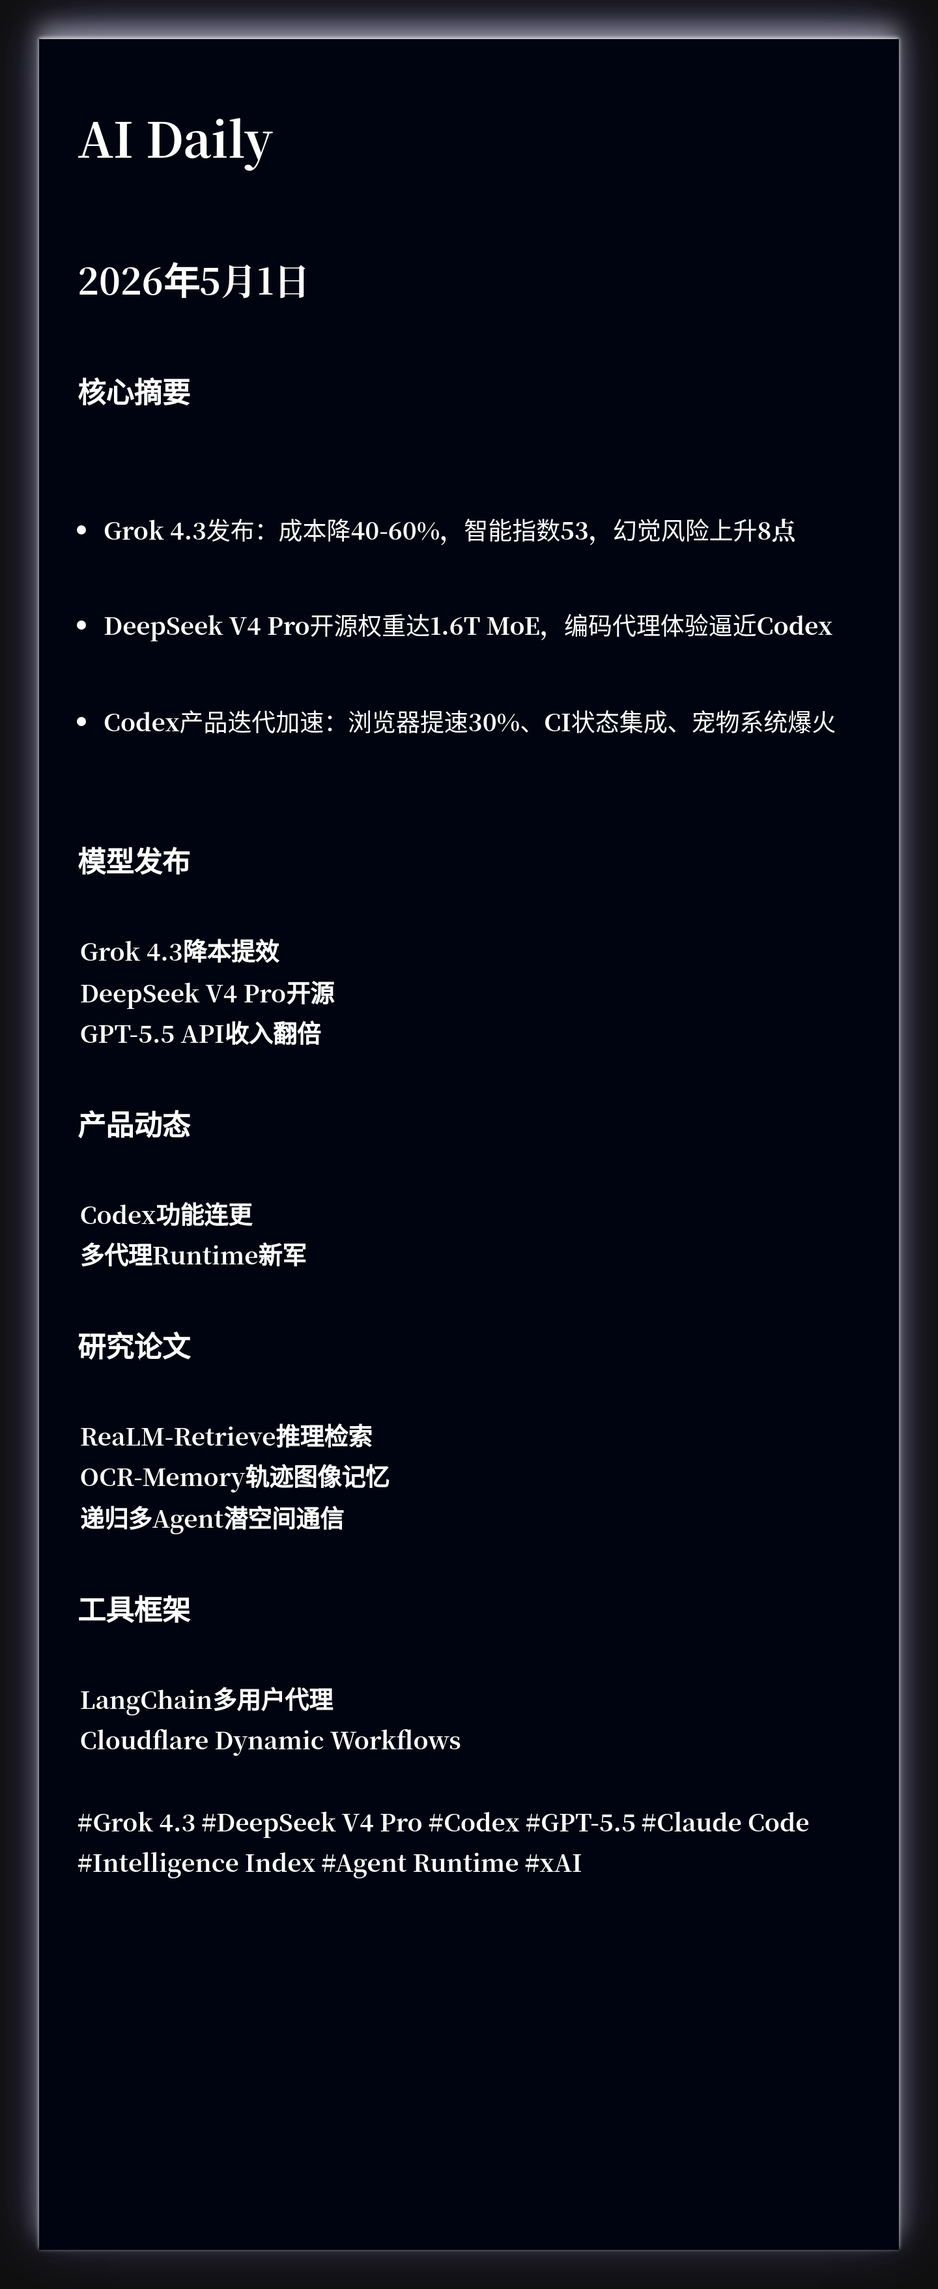
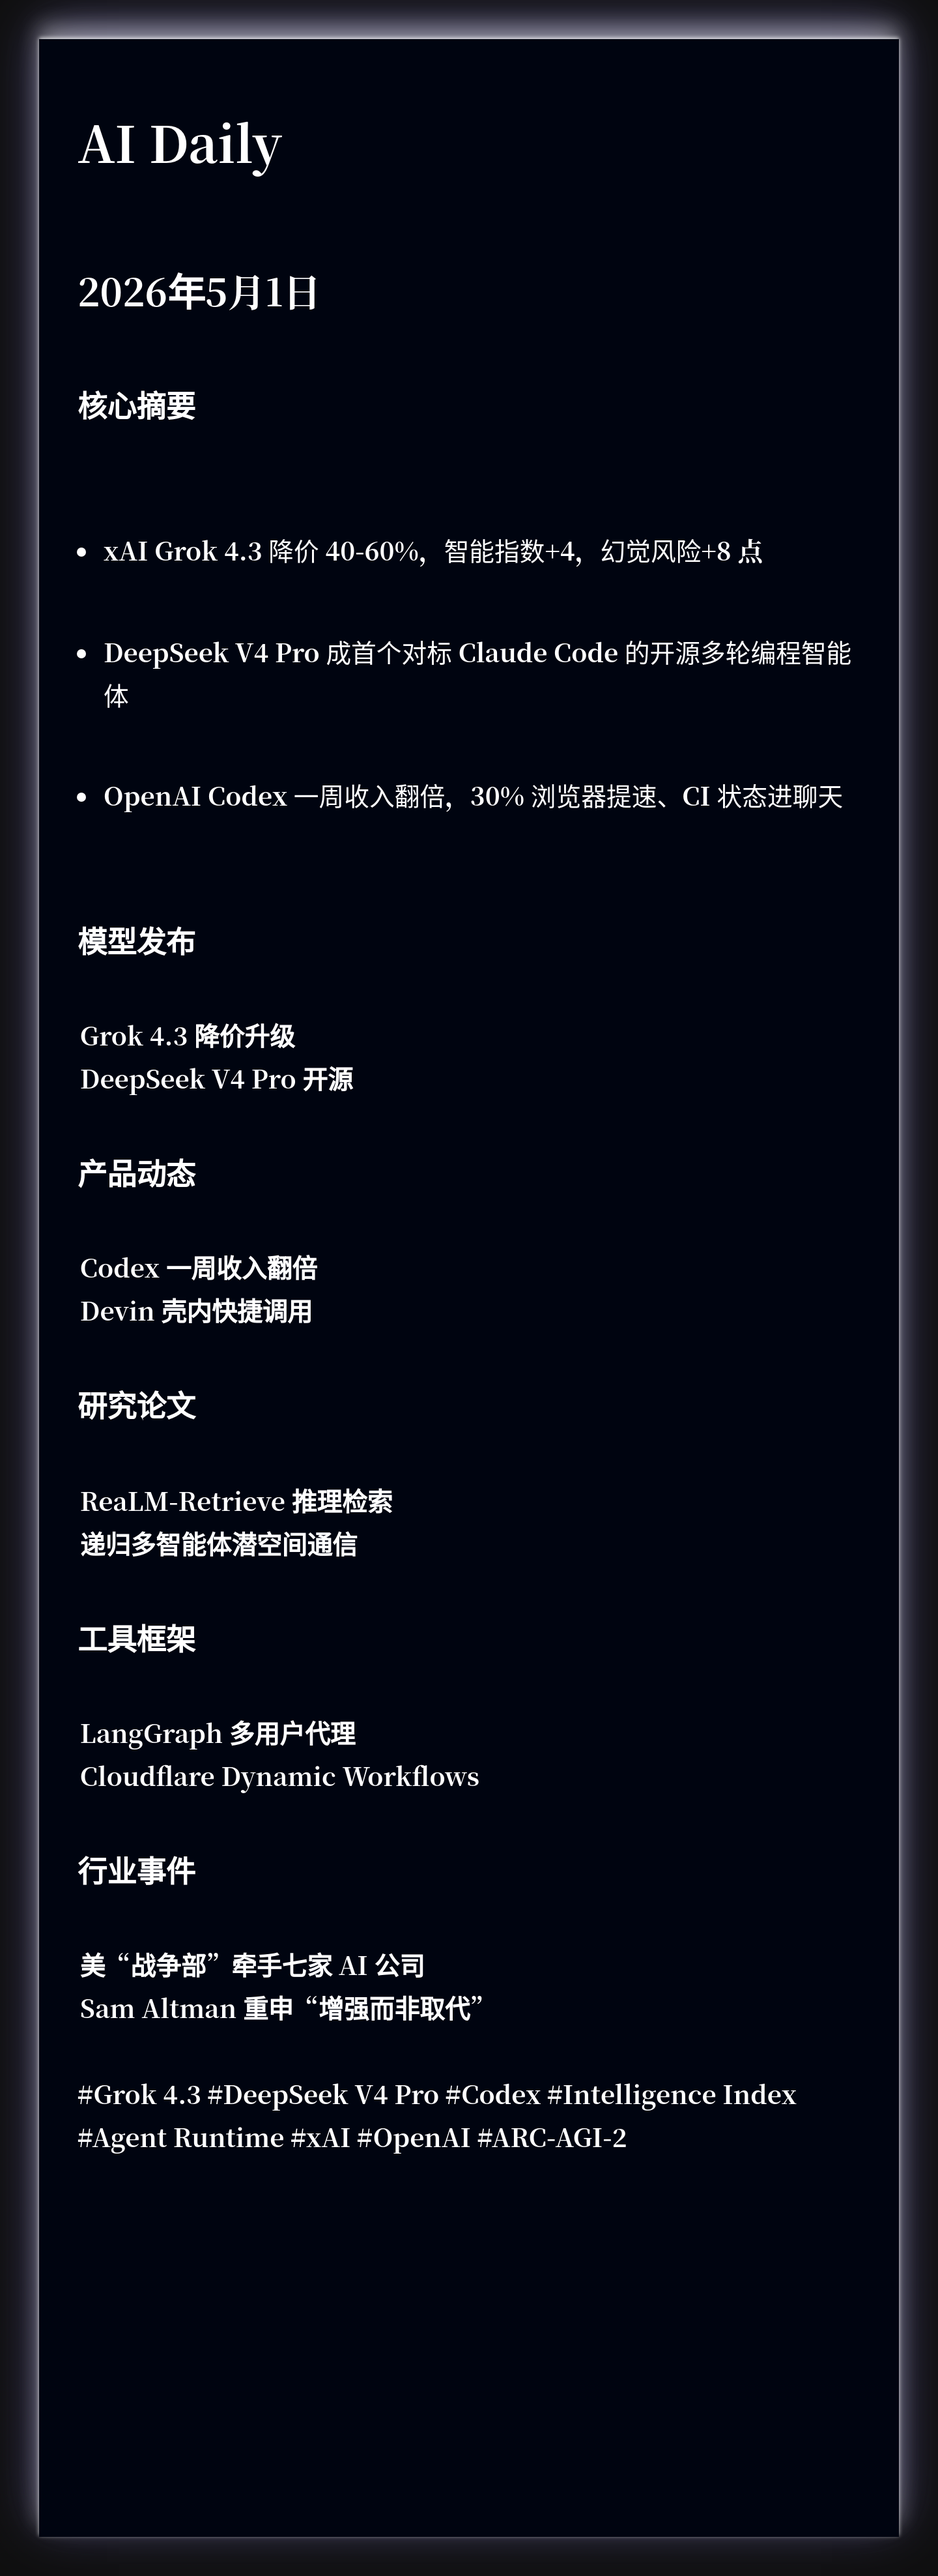
🤖 Auto update AI Daily - {{ date }} c12df99939e49153058be8885637e517e0945aa2

diff --git a/2026-05-01.html b/2026-05-01.html
@@ -5,7 +5,7 @@
     <meta name="viewport" content="width=device-width, initial-scale=1.0">
     <title>AI Daily · 2026年5月1日 星期五</title>
     <meta name="description" content="每日 AI 前沿资讯，智能分类，快速掌握核心动态">
-    <meta name="keywords" content="Grok 4.3, DeepSeek V4 Pro, Codex, GPT-5.5, Claude Code, Intelligence Index, Agent Runtime, xAI, OpenAI, MoE, AI, 人工智能, 机器学习, 深度学习, 资讯, 日报">
+    <meta name="keywords" content="Grok 4.3, DeepSeek V4 Pro, Codex, Intelligence Index, Agent Runtime, xAI, OpenAI, ARC-AGI-2, AI, 人工智能, 机器学习, 深度学习, 资讯, 日报">
     <link rel="stylesheet" href="css/styles.css">
 </head>
 <body data-theme="blue">
@@ -24,9 +24,9 @@
             <section class="summary-card">
                 <h2 class="section-title">📌 今日核心摘要</h2>
                 <ul class="summary-list">
-                <li class="summary-item">Grok 4.3发布：成本降40-60%，智能指数53，幻觉风险上升8点</li>
-                <li class="summary-item">DeepSeek V4 Pro开源权重达1.6T MoE，编码代理体验逼近Codex</li>
-                <li class="summary-item">Codex产品迭代加速：浏览器提速30%、CI状态集成、宠物系统爆火</li>
+                <li class="summary-item">xAI Grok 4.3 降价 40-60%，智能指数+4，幻觉风险+8 点</li>
+                <li class="summary-item">DeepSeek V4 Pro 成首个对标 Claude Code 的开源多轮编程智能体</li>
+                <li class="summary-item">OpenAI Codex 一周收入翻倍，30% 浏览器提速、CI 状态进聊天</li>
                 </ul>
             </section>
 
@@ -35,35 +35,26 @@
                 <div class="category-header">
                     <span class="category-icon">🤖</span>
                     <h2 class="category-title">模型发布</h2>
-                    <span class="category-count">3</span>
+                    <span class="category-count">2</span>
                 </div>
                 <div class="news-grid">
 
                 <article class="news-card">
                     <div class="news-card-header">
-                        <h3 class="news-title">Grok 4.3降本提效</h3>
+                        <h3 class="news-title">Grok 4.3 降价升级</h3>
                         <a href="https://x.com/ArtificialAnlys/status/2049987001655714250" class="item-link" target="_blank" rel="noopener">详情</a>
                     </div>
-                    <p class="news-summary">xAI推Grok 4.3，输入/输出价降40%/60%，Intelligence Index 53，幻觉率增8点</p>
-                    <div class="item-tags"><span class="tag">#xAI</span> <span class="tag">#Grok</span> <span class="tag">#Intelligence Index</span></div>
+                    <p class="news-summary">输入/输出价降 40-60%，GDPval-AA 提 321 Elo，幻觉率反升 8 点</p>
+                    <div class="item-tags"><span class="tag">#xAI</span> <span class="tag">#Grok</span> <span class="tag">#定价</span></div>
                 </article>
 
                 <article class="news-card">
                     <div class="news-card-header">
-                        <h3 class="news-title">DeepSeek V4 Pro开源</h3>
+                        <h3 class="news-title">DeepSeek V4 Pro 开源</h3>
                         <a href="https://x.com/omarsar0/status/2050009901234282649" class="item-link" target="_blank" rel="noopener">详情</a>
                     </div>
-                    <p class="news-summary">1.6T MoE开源权重，49B active，长上下文1M，Pi编码代理实战对标Codex</p>
-                    <div class="item-tags"><span class="tag">#DeepSeek</span> <span class="tag">#MoE</span> <span class="tag">#开源</span></div>
-                </article>
-
-                <article class="news-card">
-                    <div class="news-card-header">
-                        <h3 class="news-title">GPT-5.5 API收入翻倍</h3>
-                        <a href="https://x.com/OpenAI/status/2050250926888468929" class="item-link" target="_blank" rel="noopener">详情</a>
-                    </div>
-                    <p class="news-summary">OpenAI称GPT-5.5成最强发布，API收入增速2倍，Codex七日内收入翻倍</p>
-                    <div class="item-tags"><span class="tag">#OpenAI</span> <span class="tag">#GPT-5.5</span> <span class="tag">#API</span></div>
+                    <p class="news-summary">1.6T MoE 49B 活跃，1M 上下文，Pi 实测媲美 Claude Code</p>
+                    <div class="item-tags"><span class="tag">#DeepSeek</span> <span class="tag">#开源</span> <span class="tag">#编程智能体</span></div>
                 </article>
 
                 </div>
@@ -79,20 +70,20 @@
 
                 <article class="news-card">
                     <div class="news-card-header">
-                        <h3 class="news-title">Codex功能连更</h3>
-                        <a href="https://x.com/OpenAIDevs/status/2050275713824211041" class="item-link" target="_blank" rel="noopener">详情</a>
+                        <h3 class="news-title">Codex 一周收入翻倍</h3>
+                        <a href="https://x.com/OpenAI/status/2050290618187055175" class="item-link" target="_blank" rel="noopener">详情</a>
                     </div>
-                    <p class="news-summary">新增设备工具栏、浏览器提速30%、CI状态、迁移工具及爆款宠物系统</p>
-                    <div class="item-tags"><span class="tag">#Codex</span> <span class="tag">#OpenAI</span> <span class="tag">#UX</span></div>
+                    <p class="news-summary">新增设备工具栏、CI 状态、宠物系统，浏览器提速 30%</p>
+                    <div class="item-tags"><span class="tag">#OpenAI</span> <span class="tag">#Codex</span> <span class="tag">#IDE</span></div>
                 </article>
 
                 <article class="news-card">
                     <div class="news-card-header">
-                        <h3 class="news-title">多代理Runtime新军</h3>
-                        <a href="https://x.com/FredKSchott/status/2050274923852210397" class="item-link" target="_blank" rel="noopener">详情</a>
+                        <h3 class="news-title">Devin 壳内快捷调用</h3>
+                        <a href="https://x.com/cognition/status/2050268727997022498" class="item-link" target="_blank" rel="noopener">详情</a>
                     </div>
-                    <p class="news-summary">Devin推shell热键，Hermes加/goal循环，Flue发布TS框架对标Claude Code</p>
-                    <div class="item-tags"><span class="tag">#Devin</span> <span class="tag">#Hermes</span> <span class="tag">#Flue</span></div>
+                    <p class="news-summary">一键唤起 Devin 在本地 Shell 执行，加速人机协作</p>
+                    <div class="item-tags"><span class="tag">#Cognition</span> <span class="tag">#Devin</span> <span class="tag">#Agent</span></div>
                 </article>
 
                 </div>
@@ -102,35 +93,26 @@
                 <div class="category-header">
                     <span class="category-icon">📚</span>
                     <h2 class="category-title">研究论文</h2>
-                    <span class="category-count">3</span>
+                    <span class="category-count">2</span>
                 </div>
                 <div class="news-grid">
 
                 <article class="news-card">
                     <div class="news-card-header">
-                        <h3 class="news-title">ReaLM-Retrieve推理检索</h3>
+                        <h3 class="news-title">ReaLM-Retrieve 推理检索</h3>
                         <a href="https://x.com/omarsar0/status/2049954716298494386" class="item-link" target="_blank" rel="noopener">详情</a>
                     </div>
-                    <p class="news-summary">推理时检索替代前置RAG，F1+10.1%，检索调用减47%，开销降3.2倍</p>
-                    <div class="item-tags"><span class="tag">#ReaLM</span> <span class="tag">#RAG</span> <span class="tag">#推理</span></div>
+                    <p class="news-summary">推理时动态检索，F1+10.1%，调用量降 47%，开销降 3.2 倍</p>
+                    <div class="item-tags"><span class="tag">#RAG</span> <span class="tag">#推理</span> <span class="tag">#Agent</span></div>
                 </article>
 
                 <article class="news-card">
                     <div class="news-card-header">
-                        <h3 class="news-title">OCR-Memory轨迹图像记忆</h3>
-                        <a href="https://x.com/dair_ai/status/2049957482811056307" class="item-link" target="_blank" rel="noopener">详情</a>
-                    </div>
-                    <p class="news-summary">长程轨迹存为图像+锚点索引，Mind2Web/AppWorld SOTA，上下文严格受限</p>
-                    <div class="item-tags"><span class="tag">#OCR-Memory</span> <span class="tag">#记忆</span> <span class="tag">#轨迹</span></div>
-                </article>
-
-                <article class="news-card">
-                    <div class="news-card-header">
-                        <h3 class="news-title">递归多Agent潜空间通信</h3>
+                        <h3 class="news-title">递归多智能体潜空间通信</h3>
                         <a href="https://x.com/omarsar0/status/2050261229315477988" class="item-link" target="_blank" rel="noopener">详情</a>
                     </div>
-                    <p class="news-summary">Agent共享潜递归计算替代文本对话，准确率+8.3%，速度提1.2-2.4倍</p>
-                    <div class="item-tags"><span class="tag">#多Agent</span> <span class="tag">#潜空间</span> <span class="tag">#通信</span></div>
+                    <p class="news-summary">潜向量替代文本对话，提速 1.2-2.4 倍，省 token 35-76%</p>
+                    <div class="item-tags"><span class="tag">#多智能体</span> <span class="tag">#潜空间</span> <span class="tag">#通信</span></div>
                 </article>
 
                 </div>
@@ -146,11 +128,11 @@
 
                 <article class="news-card">
                     <div class="news-card-header">
-                        <h3 class="news-title">LangChain多用户代理</h3>
-                        <a href="https://x.com/sydneyrunkle/status/2050181039406858371" class="item-link" target="_blank" rel="noopener">详情</a>
+                        <h3 class="news-title">LangGraph 多用户代理</h3>
+                        <a href="https://x.com/sydneyrunkle/status/2049956826670911809" class="item-link" target="_blank" rel="noopener">详情</a>
                     </div>
-                    <p class="news-summary">Agent Server支持数据隔离、委托凭证、RBAC，新增HITL暂停/恢复语义</p>
-                    <div class="item-tags"><span class="tag">#LangChain</span> <span class="tag">#HITL</span> <span class="tag">#RBAC</span></div>
+                    <p class="news-summary">内置数据隔离、RBAC、HITL 暂停/恢复，生产级部署</p>
+                    <div class="item-tags"><span class="tag">#LangChain</span> <span class="tag">#Agent</span> <span class="tag">#企业</span></div>
                 </article>
 
                 <article class="news-card">
@@ -158,8 +140,37 @@
                         <h3 class="news-title">Cloudflare Dynamic Workflows</h3>
                         <a href="https://x.com/celso/status/2050211184129786084" class="item-link" target="_blank" rel="noopener">详情</a>
                     </div>
-                    <p class="news-summary">为Agent计划提供持久执行能力，Cloudflare官宣动态工作流运行时</p>
-                    <div class="item-tags"><span class="tag">#Cloudflare</span> <span class="tag">#持久化</span> <span class="tag">#运行时</span></div>
+                    <p class="news-summary">为 Agent 提供云端持久执行与重放能力，免运维</p>
+                    <div class="item-tags"><span class="tag">#Cloudflare</span> <span class="tag">#Durable Execution</span> <span class="tag">#Serverless</span></div>
+                </article>
+
+                </div>
+            </section>
+
+            <section class="category-section">
+                <div class="category-header">
+                    <span class="category-icon">🏆</span>
+                    <h2 class="category-title">行业事件</h2>
+                    <span class="category-count">2</span>
+                </div>
+                <div class="news-grid">
+
+                <article class="news-card">
+                    <div class="news-card-header">
+                        <h3 class="news-title">美“战争部”牵手七家 AI 公司</h3>
+                        <a href="https://x.com/DoWCTO/status/2050175912134561977" class="item-link" target="_blank" rel="noopener">详情</a>
+                    </div>
+                    <p class="news-summary">签约将前沿模型部署进机密网络，加速国防 AI 落地</p>
+                    <div class="item-tags"><span class="tag">#美国国防部</span> <span class="tag">#AI 安全</span> <span class="tag">#合作</span></div>
+                </article>
+
+                <article class="news-card">
+                    <div class="news-card-header">
+                        <h3 class="news-title">Sam Altman 重申“增强而非取代”</h3>
+                        <a href="https://x.com/sama/status/2050229058425045178" class="item-link" target="_blank" rel="noopener">详情</a>
+                    </div>
+                    <p class="news-summary">OpenAI 公开表态专注人类增强工具，回应就业担忧</p>
+                    <div class="item-tags"><span class="tag">#OpenAI</span> <span class="tag">#就业</span> <span class="tag">#AI 伦理</span></div>
                 </article>
 
                 </div>
@@ -167,7 +178,7 @@
 
 
         <footer class="keywords-footer">
-            <p>#关键词: Grok 4.3 | DeepSeek V4 Pro | Codex | GPT-5.5 | Claude Code | Intelligence Index | Agent Runtime | xAI | OpenAI | MoE</p>
+            <p>#关键词: Grok 4.3 | DeepSeek V4 Pro | Codex | Intelligence Index | Agent Runtime | xAI | OpenAI | ARC-AGI-2</p>
         </footer>
 
         </main>

diff --git a/xiaohongshu/xhs-2026-05-01.html b/xiaohongshu/xhs-2026-05-01.html
@@ -316,20 +316,20 @@
 
                 <!-- 主标题区域 -->
                 <div class="title-section">
-                    <div class="main-title">发布 · 开源</div>
+                    <div class="main-title">Claude · 开源</div>
                     <div class="divider"></div>
-                    <div class="subtitle">Grok 4.3发布：成本降40-60%，智能指数...</div>
+                    <div class="subtitle">xAI Grok 4.3 降价 40-60%，智能...</div>
 
                     <!-- 亮点 -->
                     <div class="highlights">
-                        <span class="highlight-item">Grok 4</span><span class="highlight-item">DeepSe</span><span class="highlight-item">Codex产</span>
+                        <span class="highlight-item">xAI Gr</span><span class="highlight-item">DeepSe</span><span class="highlight-item">OpenAI</span>
                     </div>
                 </div>
 
                 <!-- 底部区域 -->
                 <div class="bottom-section">
                     <div class="keywords">
-                        <span class="keyword-tag">#Grok 4.3</span><span class="keyword-tag">#DeepSeek V4 Pro</span><span class="keyword-tag">#Codex</span><span class="keyword-tag">#GPT-5.5</span><span class="keyword-tag">#Claude Code</span>
+                        <span class="keyword-tag">#Grok 4.3</span><span class="keyword-tag">#DeepSeek V4 Pro</span><span class="keyword-tag">#Codex</span><span class="keyword-tag">#Intelligence Index</span><span class="keyword-tag">#Agent Runtime</span>
                     </div>
                     <div class="account-info">
                         <div class="account-name">极客杰尼</div>

diff --git a/index.html b/index.html
@@ -29,7 +29,7 @@
                         <span class="entry-date">2026年5月1日 星期五</span>
                         <span class="entry-arrow">→</span>
                     </div>
-                    <p class="entry-summary">Grok 4.3发布：成本降40-60%，智能指数53，幻觉风险上升8点</p>
+                    <p class="entry-summary">xAI Grok 4.3 降价 40-60%，智能指数+4，幻觉风险+8 点</p>
                 </a>
             </article>
 
